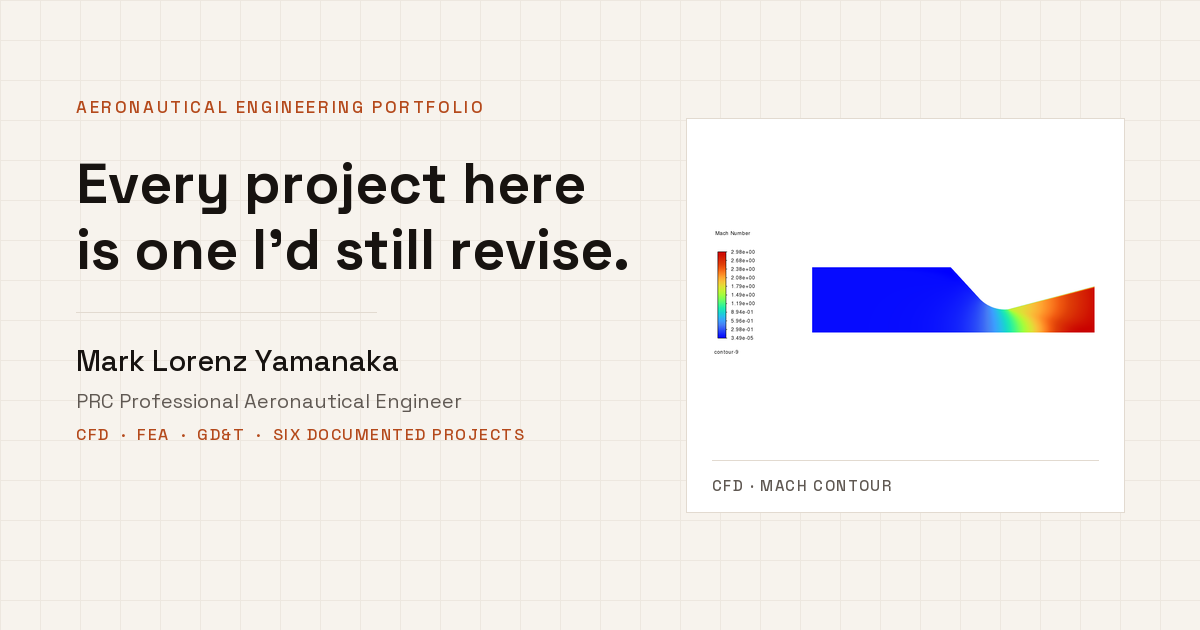
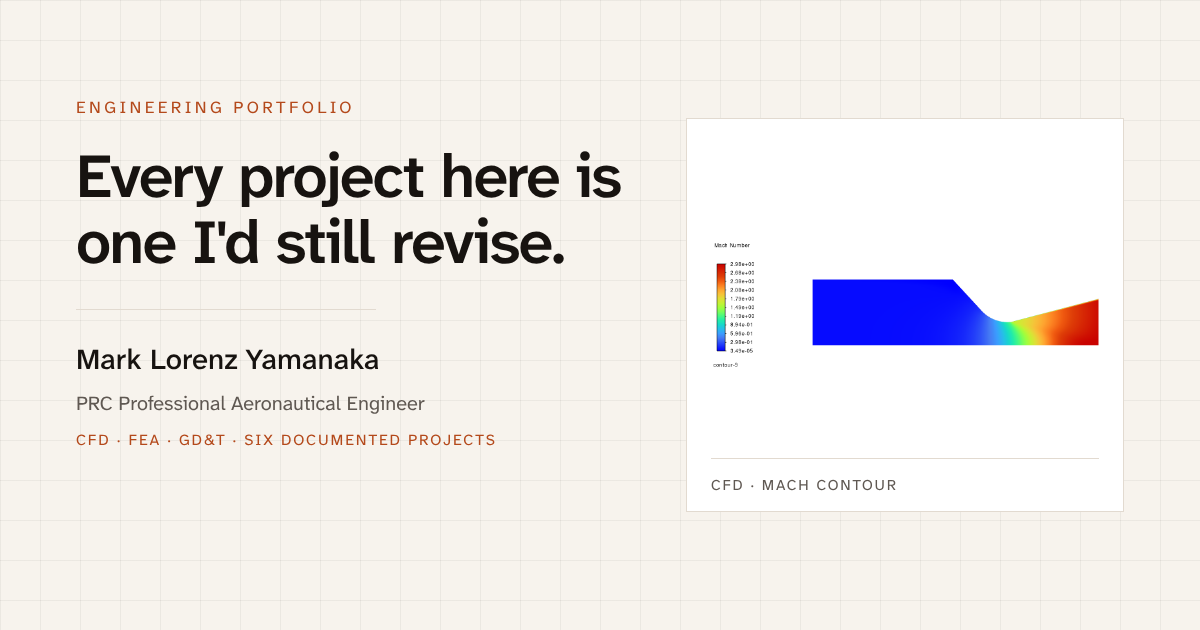
Rename "Aeronautical Engineering Portfolio" to "Engineering Portfolio"
Hero eyebrow, <title>, og:title, twitter:title and meta description.
The share card (og-card.png) is re-rendered at 1200x630 with the new
label, now set in Atkinson Hyperlegible Next like the site; layout and
content otherwise unchanged. The licence title (PRC Professional
Aeronautical Engineer) and the degree line stay, as qualifications.

Claude-Session: https://claude.ai/code/session_01Qr76RsM42yBFLBbMzhwBfQ

diff --git a/project/portfolio-light.html b/project/portfolio-light.html
@@ -3,8 +3,8 @@
 <head>
 <meta charset="utf-8">
 <meta name="viewport" content="width=device-width, initial-scale=1">
-<title>Mark Lorenz Yamanaka — Aeronautical Engineering Portfolio</title>
-<meta name="description" content="Aeronautical engineering portfolio of Mark Lorenz Yamanaka, a PRC-licensed Professional Aeronautical Engineer. Six documented CFD, FEA and GD&amp;T projects, two of them published as failures.">
+<title>Mark Lorenz Yamanaka — Engineering Portfolio</title>
+<meta name="description" content="Engineering portfolio of Mark Lorenz Yamanaka, a PRC-licensed Professional Aeronautical Engineer. Six documented CFD, FEA and GD&amp;T projects, two of them published as failures.">
 <meta name="author" content="Mark Lorenz Yamanaka">
 <!-- www, not the apex: mlyamanaka.com 308-redirects to www, and a scraper
      that does not follow redirects would never reach og-card.png. -->
@@ -13,7 +13,7 @@
 <meta property="og:type" content="website">
 <meta property="og:site_name" content="Mark Lorenz Yamanaka">
 <meta property="og:url" content="https://www.mlyamanaka.com/">
-<meta property="og:title" content="Mark Lorenz Yamanaka — Aeronautical Engineering Portfolio">
+<meta property="og:title" content="Mark Lorenz Yamanaka — Engineering Portfolio">
 <meta property="og:description" content="Six projects taken far enough that someone could build them — CFD, FEA and GD&amp;T drawing sets. Two are published as failures, because the numbers came back short.">
 <meta property="og:image" content="https://www.mlyamanaka.com/og-card.png">
 <meta property="og:image:width" content="1200">
@@ -21,7 +21,7 @@
 <meta property="og:image:alt" content="Mark Lorenz Yamanaka, PRC Professional Aeronautical Engineer — portfolio card showing a CFD Mach contour of a converging-diverging nozzle.">
 
 <meta name="twitter:card" content="summary_large_image">
-<meta name="twitter:title" content="Mark Lorenz Yamanaka — Aeronautical Engineering Portfolio">
+<meta name="twitter:title" content="Mark Lorenz Yamanaka — Engineering Portfolio">
 <meta name="twitter:description" content="Six projects taken far enough that someone could build them — CFD, FEA and GD&amp;T drawing sets. Two are published as failures.">
 <meta name="twitter:image" content="https://www.mlyamanaka.com/og-card.png">
 
@@ -1479,7 +1479,7 @@ setTimeout(function(){
 <section aria-label="Introduction" style="max-width:1240px;margin:0 auto;padding:clamp(44px,7vw,104px) clamp(18px,4vw,56px) clamp(32px,5vw,64px);">
   <div class="hero-grid" style="gap:clamp(28px,4vw,64px);">
     <div>
-      <div class="hero-s1" style="font-family:var(--font-sans);font-size:11.5px;letter-spacing:0.2em;text-transform:uppercase;color:var(--rust);margin-bottom:22px;">01 — AERONAUTICAL ENGINEERING PORTFOLIO</div>
+      <div class="hero-s1" style="font-family:var(--font-sans);font-size:11.5px;letter-spacing:0.2em;text-transform:uppercase;color:var(--rust);margin-bottom:22px;">01 — ENGINEERING PORTFOLIO</div>
       <h1 class="hero-s2" style="font-family:var(--font-sans);font-weight:600;font-size:clamp(38px,5.6vw,64px);line-height:1.05;letter-spacing:-0.035em;margin:0 0 26px;text-wrap:balance;">Every project here is one I'd still revise.</h1>
       <p class="hero-s3" style="font-size:clamp(16px,1.3vw,19px);line-height:1.62;max-width:50ch;margin:0 0 22px;color:var(--muted);text-wrap:pretty;">I'm Mark Lorenz Yamanaka, a PRC-licensed Professional Aeronautical Engineer working across CFD, FEA and GD&T drawing sets. Seven projects below: six taken far enough that someone could build them, and one still under analysis. Two are published as failures, because the numbers came back short. The full working is in the repositories.</p>
       <a href="#p-bracket" class="hero-cta-link hero-s4" style="display:inline-block;font-family:var(--font-sans);font-size:12px;letter-spacing:0.08em;text-transform:uppercase;border-bottom:1px solid var(--rust);padding-bottom:3px;color:var(--rust);margin-bottom:28px;">See the seven projects ↓</a>
